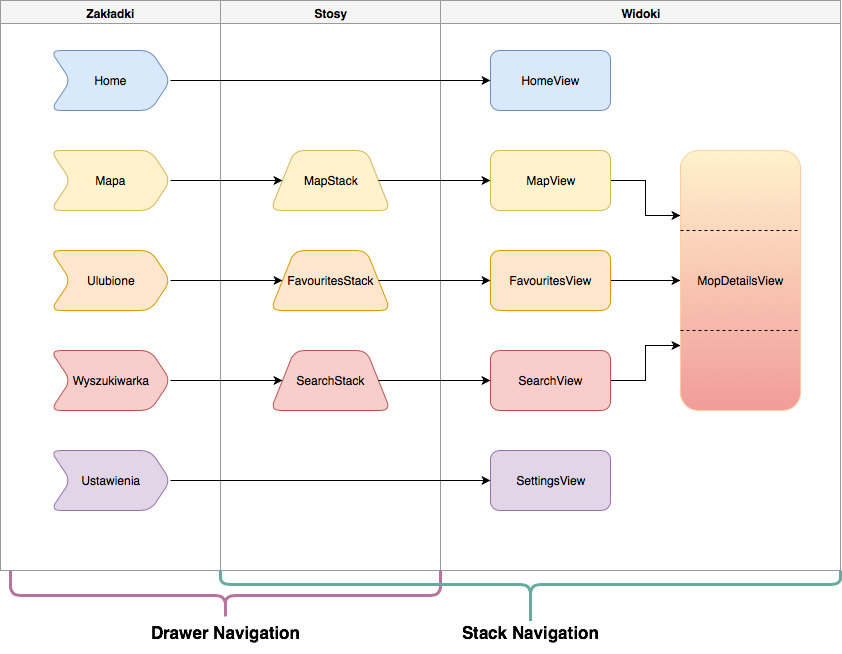
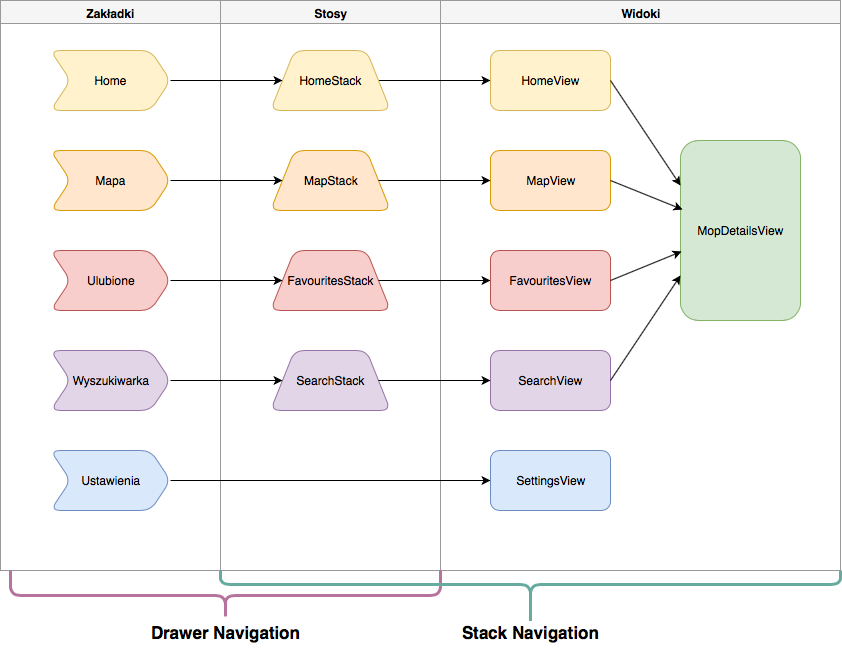
changes in mopsik architecture

diff --git a/praca/praca.tex b/praca/praca.tex
@@ -314,6 +314,7 @@ Typy pojazdów
 \end{enumerate}
 Podział został wykonany w oparciu o zróżnicowane potrzeby użytkowników tych pojazdów, a także znaczące różnice w gabarytach, a co za tym idzie -- wymiarach potrzebnych miejsc parkingowych.
 Konfigurację aplikacji można zmienić w każdej chwili w zakładce \emph{Ustawienia}.
+W ustawieniach znajduję się także przycisk \textit{Zresetuj ustawienia}, który wymazuje z urządzenia wszystkie informacje zapisane przez aplikację i uruchamia ją ponownie. 
 
 \subsection{Google Maps}
 \subsubsection{Warunki}
@@ -325,6 +326,7 @@ Dodawanie markerów na mapie, a szczególnie tych z własną ikoną, znacząco o
 \begin{enumerate}
 \item Do mapy dodawane są tylko markery znajdujące się w obecnie widocznym obszarze. Wraz z przesuwaniem mapy ładowane są kolejne.
 \item Mapa przeładowywana jest nie częściej niż co 2 sekundy. Zapobiega to ciągłemu odświeżaniu gdy odczyty GPS urządzenia są niedokładne i nieprzerwanie drgają.
+\item Wykorzystanie \textit{onRegionChangeComplete} zamiast \textit{onRegionChange} -- obie funkcje wywoływane są gdy użytkownik porusza mapą, czyli przy zmianie aktualnie widocznego fragmentu. \textit{onRegionChangeComplete} wywoływane jest tylko raz -- po zakończonym przeciągnięciu. Animacje są nieco mniej płynne, ale aplikacja nie zawiesza się przez ciągłe przeładowywanie mapy i znaczników MOP-ów.
 %TODO  \item  optymalizacja, której jeszcze nie wymyśliliśmy 
 \end{enumerate}
 \subsubsection{Bezpieczeństwo}
@@ -349,6 +351,10 @@ Biblioteka zawierająca wiele gotowych komponentów. Skorzystaliśmy m.in. z \te
 \item \textbf{react-native-maps} \\
 \url{https://github.com/react-community/react-native-maps}\\
 Biblioteka umożliwiająca połączenie do Google Maps API i renderowanie map.
+
+\item \textbf{react-native-restart} \\
+\url{https://github.com/avishayil/react-native-restart}\\
+Biblioteka umożliwia restart aplikacji z poziomu kodu. Wykorzystana przy resetowaniu ustawień.
 
 \item \textbf{react-native-svg} \\
 \url{https://github.com/react-native-community/react-native-svg}\\
@@ -383,17 +389,22 @@ Otoczka całej aplikacji. Odpowiada za nawigowanie wewnątrz aplikacji i porusza
 \end{figure}
 W aplikacji wykorzystaliśmy dwa typy nawigacji - stos (\textit{StackNavigator}) i menu boczne (\textit{DrawerNavigator}). Architektura nawigacji została przedstawiona na rysunku \ref{mopsik_nav}.\\
 
-Najbardziej zewnętrznym elementem aplikacji jest komponent \textit{DrawerNavigator}. Dodane są do niego widoki \textit{HomeView} oraz \textit{SettingsView}, a także stosy \textit{MapStack}, \textit{FavouritesStack} i \textit{SearchStack}. Menu boczne jest utworzone przez dostosowany do naszych potrzeb komponent \textit{DrawerContent} -- dodane zostało logo i autorzy. \\
+Najbardziej zewnętrznym elementem aplikacji jest komponent \textit{DrawerNavigator}. Dodany jest do niego widok \textit{SettingsView}, a także stosy \textit{HomeStack}, \textit{MapStack}, \textit{FavouritesStack} i \textit{SearchStack}. Menu boczne jest utworzone przez dostosowany do naszych potrzeb komponent \textit{DrawerContent} -- dodane zostało logo i autorzy. \\
 
-Z zakładek \textit{Ulubione}, \textit{Wyszukiwarka} i \textit{Mapa} można przejść do widoku \textit{MopDetailsView}. Za tą część nawigacji odpowiedzialny jest \textit{StackNavigator}. Bedąc w szczegółowych informacjach o MOP-ie w nagłówku pojawia się przycisk cofania. \\
+Z zakładek \textit{Home}, \textit{Ulubione}, \textit{Wyszukiwarka} i \textit{Mapa} można przejść do widoku \textit{MopDetailsView}. Za tą część nawigacji odpowiedzialny jest \textit{StackNavigator}. Bedąc w szczegółowych informacjach o MOP-ie w nagłówku pojawia się przycisk cofania. \\
 
-Komponenty Stack obudowują nawigację stosową. Wewnątrz każdego ze stosów można poruszać się po dwóch widokach - głównym i szczegółowym. W widokach głównych (tj. mapie, wyszukiwarce i ulubionych) widoczne są listy wielu MOP-ów. Po kliknięciu w wybrany MOP, aplikacja przenosi do widoku ze szczegółami wraz z odpowiednim parametrem. Na jego podstawie renderowane są informacje o tym wybranych MOP-ie. 
+Komponenty Stack obudowują nawigację stosową. Wewnątrz każdego ze stosów można poruszać się po dwóch widokach - głównym i szczegółowym. W widokach głównych (tj. domowym, mapie, wyszukiwarce i ulubionych) widoczne są listy wielu MOP-ów. Po kliknięciu w wybrany MOP, aplikacja przenosi do widoku ze szczegółami wraz z odpowiednim parametrem. Na jego podstawie renderowane są informacje o tym wybranych MOP-ie. 
 
 \subsection{Pozostałe komponenty}
 Na rysunku \ref{mopsik_mobile_structure} przedstawiona została struktura plików Mopsika. Poza komponentami opisanymi w poprzednim punkcie, aplikacja korzysta z narzędzi znajdujących się folderze \textit{tools}.
 \begin{enumerate}
 \item \textit{DrawerContent} -- menu boczne
 \item \textit{Header} -- nagłówek
+\item \textit{LastViewedMops} -- komponent wyświetlający do trzech ostatnio wyświetlanych MOP-ów
+\item \textit{MopListItem} -- element listy wyświetlający nazwę, drogę, kierunek i zajętość dla głównego typu pojazdu; wykorzystywany w \textit{Ulubionych}, \textit{Wyszukiwarce} i \textit{Ostatnio wyświetlanych}
+\item \textit{NearestMops} -- komponent wyświetlający dwa MOP-y znajdujące się najbliżej aktualnej lokalizacji użytkownika
+\item \textit{SplashScreen} -- ekran powitalny; w trakcie jego wyświetlania aplikacja pobiera dane o MOP-ach z api oraz zapisane informacje z AsyncStorage
+\item \textit{SubHeader} -- nagłówek sekcji; używany w ekranie domowym
 \item \textit{UsageCircle} -- wykres kołowy zajętości miejsc parkingowych
 \item \textit{UsageTable} -- tabela z liczbą i zajętością miejsc parkingowych dla typów pojazdów wybranych w ustawieniach
 \end{enumerate}
@@ -405,11 +416,17 @@ Na rysunku \ref{mopsik_mobile_structure} przedstawiona została struktura plikó
 .3 components.
 .4 stacks.
 .5 FavouritesStack.js.
+.5 HomeStack.js.
 .5 MapStack.js.
 .5 SearchStack.js.
 .4 tools.
 .5 DrawerContent.js.
 .5 Header.js.
+.5 LastViewedMops.js.
+.5 MopListItem.js.
+.5 NearestMops.js.
+.5 SplashScreen.js.
+.5 SubHeader.js.
 .5 UsageCircle.js.
 .5 UsageTable.js.
 .4 views.
@@ -422,6 +439,7 @@ Na rysunku \ref{mopsik_mobile_structure} przedstawiona została struktura plikó
 .3 config.
 .4 facilities.js.
 .4 favourites.js.
+.4 findNearestMop.js.
 .4 mops.js.
 .4 settings.js.
 .4 styles.js.
@@ -437,7 +455,8 @@ Na rysunku \ref{mopsik_mobile_structure} przedstawiona została struktura plikó
 W folderze \textit{config} znajdują się pliki, w których zdefiniowane są dane statyczne oraz funkcje odpowiedzielne za przetwarzanie danych.
 \begin{enumerate}
 \item \textit{facilities} -- zdefiniowane usługi dostępne na MOP-ach, odpowiadające im polskie nazwy oraz ikony, funkcje generujące komplet ikon do wyświetlania w informacjach o MOP-ie
-\item \textit{favourites} -- funckje odpowiedzialne za pobieranie MOP-ów zapisanych do ulubionych, zapisywanie, usuwanie
+\item \textit{favourites} -- funkcje odpowiedzialne za pobieranie MOP-ów zapisanych do ulubionych, zapisywanie, usuwanie
+\item \textit{findNearestMop} -- funkcja, która po otrzymaniu współrzędnych punktu, zwraca dwa MOP-y znajdujące się najbliżej tego punktu oraz odległości do niego w kilometrach
 \item \textit{mops} -- funkcje pobierające informacje o MOP-ach z API, dobierające kolory według legendy
 \item \textit{settings} -- plik ze zmiennymi przechowującymi ustawienia aplikacji
 \item \textit{styles} -- zdefiniowane style komponentów
